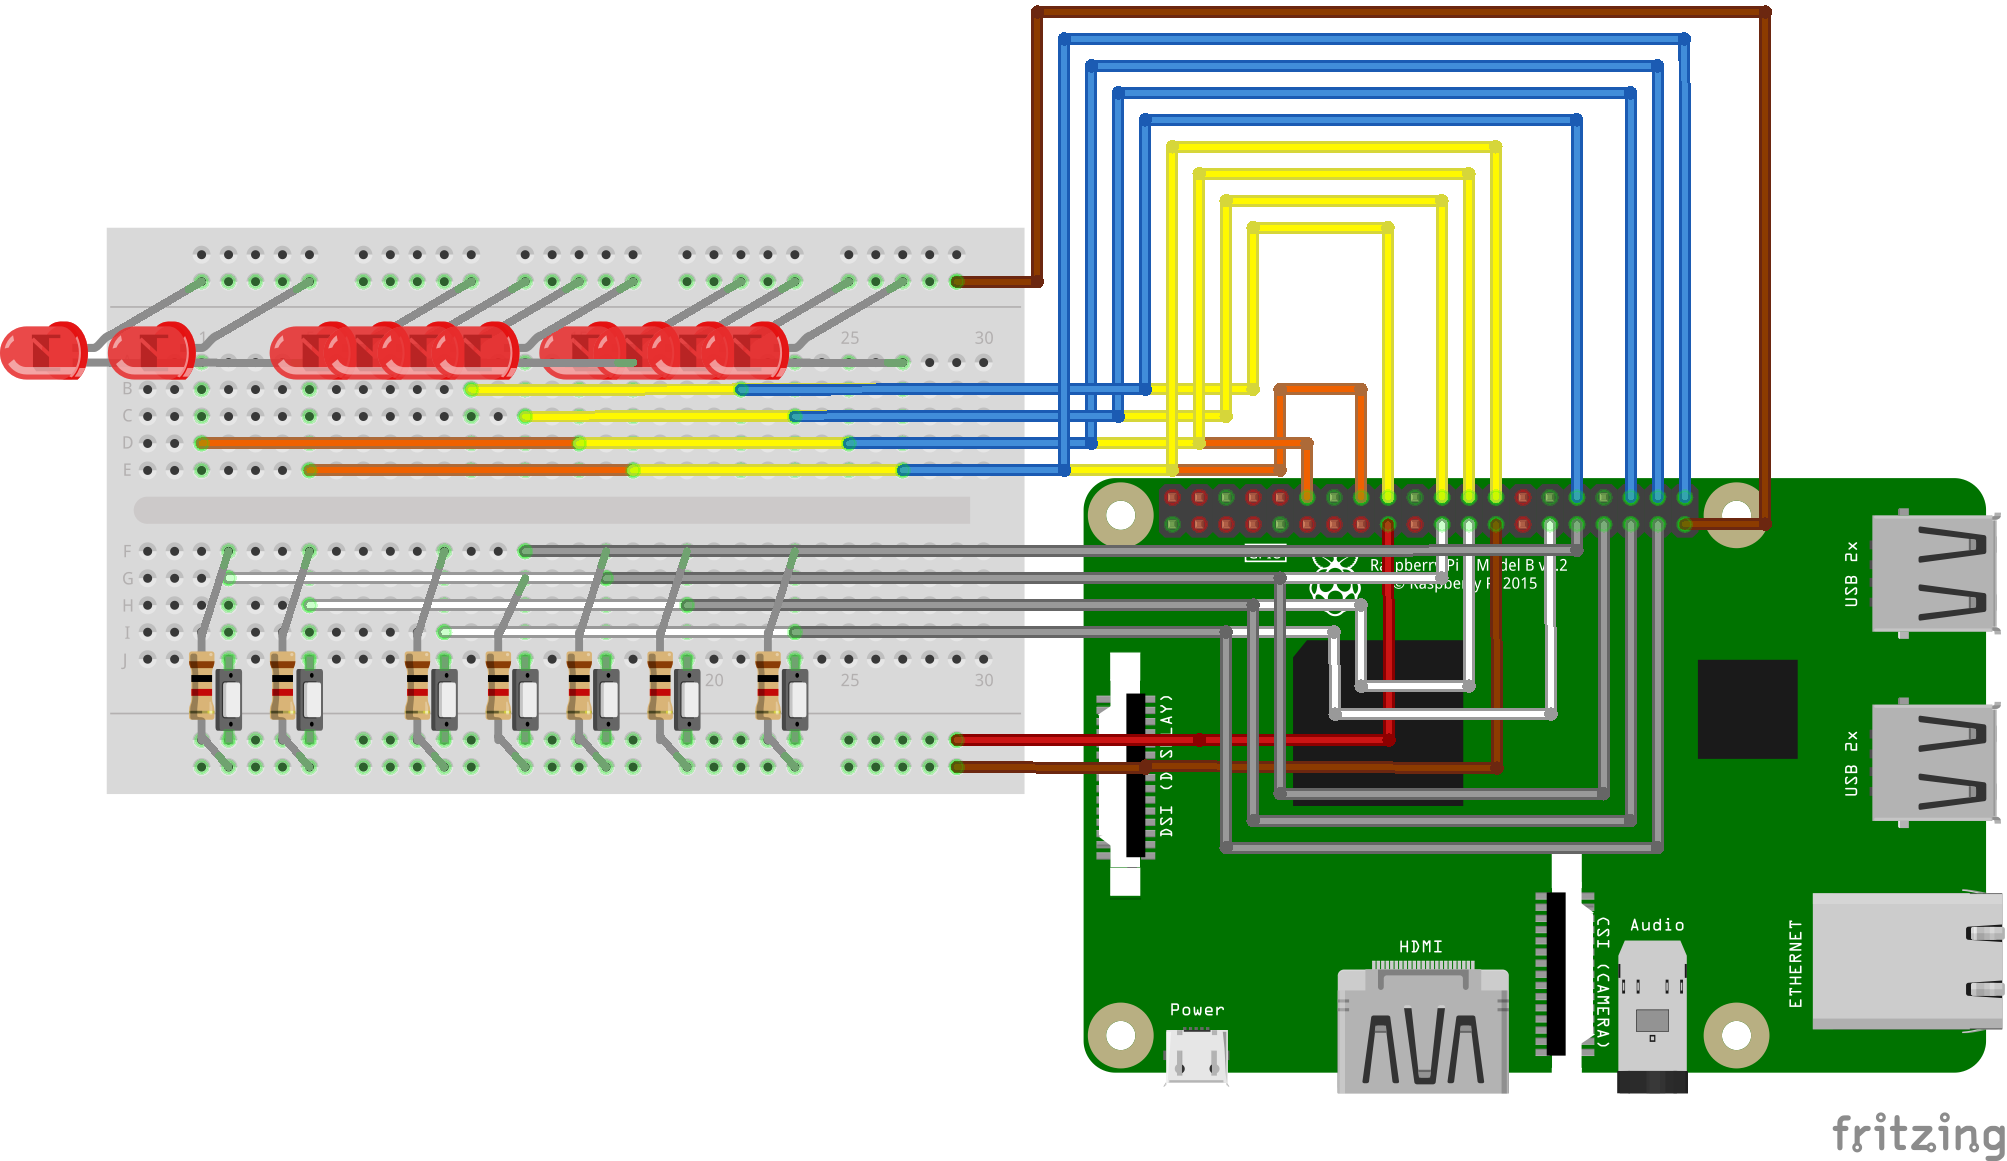
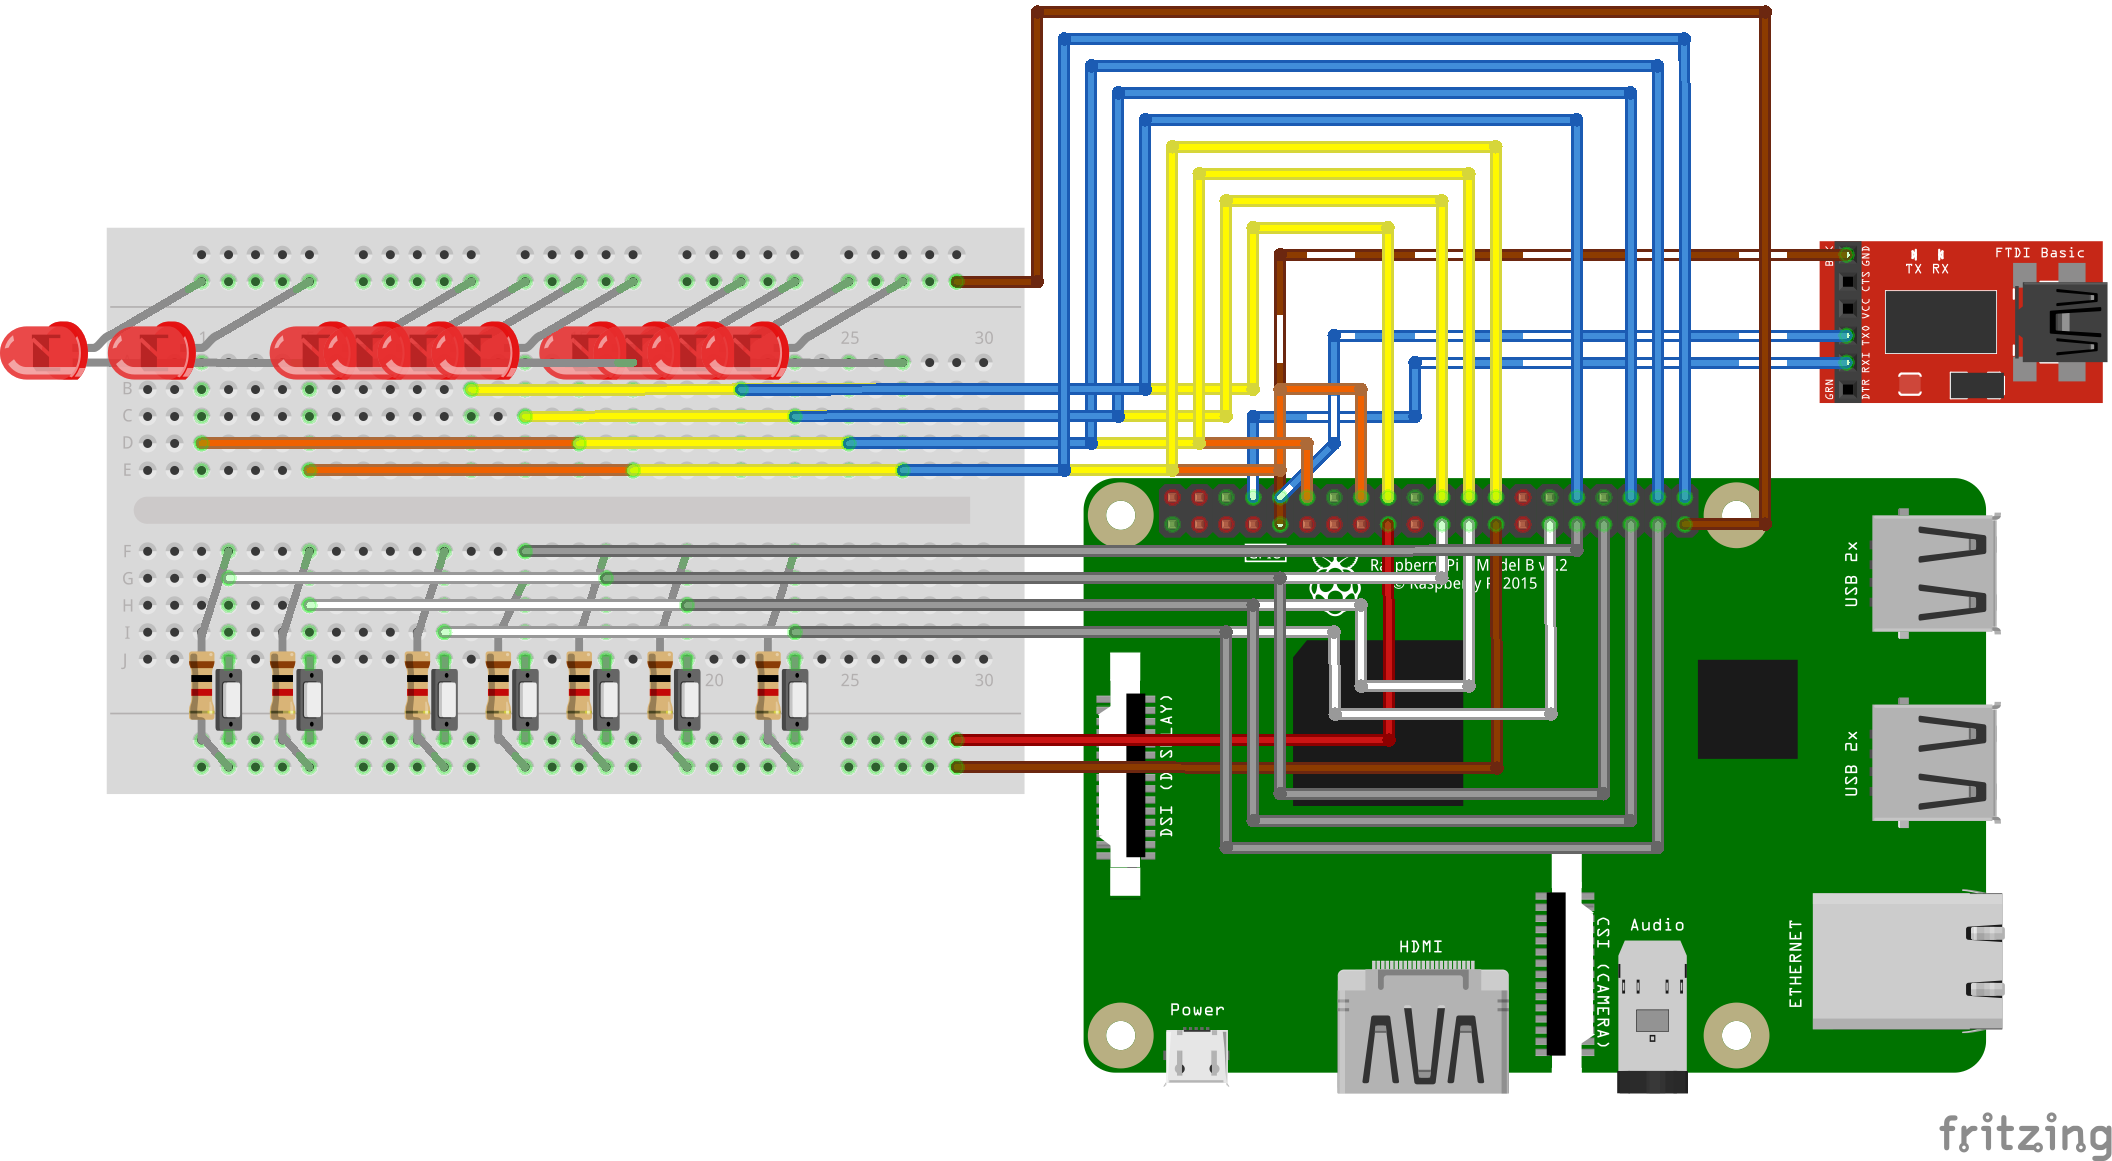
Improved documentation outline and references

Changed region(s): [[0.0309, 0.0, 1.0, 0.9612], [0.8959, 0.9612, 1.0, 1.0]]

diff --git a/README.md b/README.md
@@ -1,6 +1,27 @@
 # Binary Calculator
-
+![logo UniPa](https://skin-new.unipa.it/images/logo.png)
 ## Introduction
+
 ## Hardware
+### Raspberry Pi model 4B
+### FTDI FT232RL
+## Environment
+### pijFORTHos
+### Ubuntu 19.04
+### Picocom and Minicom
 ## Software
+### Bouncing
+## Conclusion
+### Possible improvements
 ## References
+[1] [Jack G. Ganssle - A guide to debouncing ](https://my.eng.utah.edu/~cs5780/debouncing.pdf)
+
+[2]  [Sean Eron Anderson - Bit Twiddling Hacks](https://graphics.stanford.edu/~seander/bithacks.html)
+
+[3] [Raspberry Pi 4 Model B preliminary datasheet](https://github.com/raspberrypi/documentation/blob/master/hardware/raspberrypi/bcm2711/rpi_DATA_2711_1p0_preliminary.pdf)
+
+[4] [BCM2835 ARM Peripherals](https://github.com/raspberrypi/documentation/blob/master/hardware/raspberrypi/bcm2835/BCM2835-ARM-Peripherals.pdf)
+
+[5] [BCM2835 datasheet errata](https://elinux.org/BCM2835_datasheet_errata)
+
+[6] [pijFORTHos built-in words](https://github.com/Avoncliff/pijFORTHos/blob/master/doc/forth.md)
